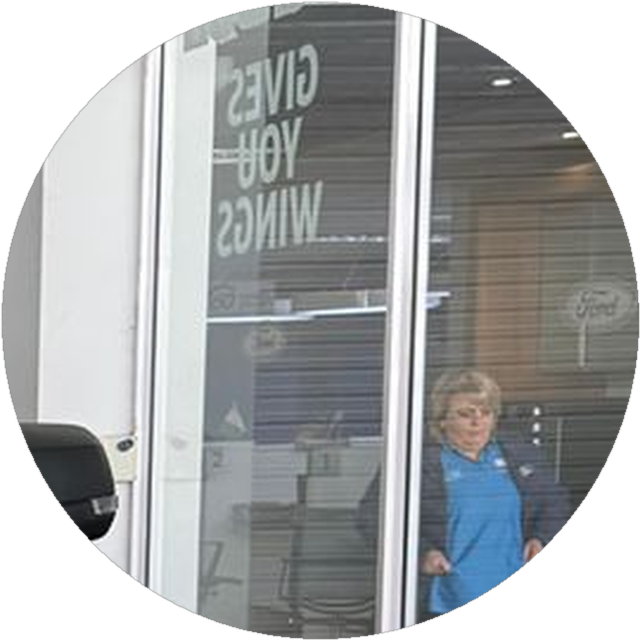
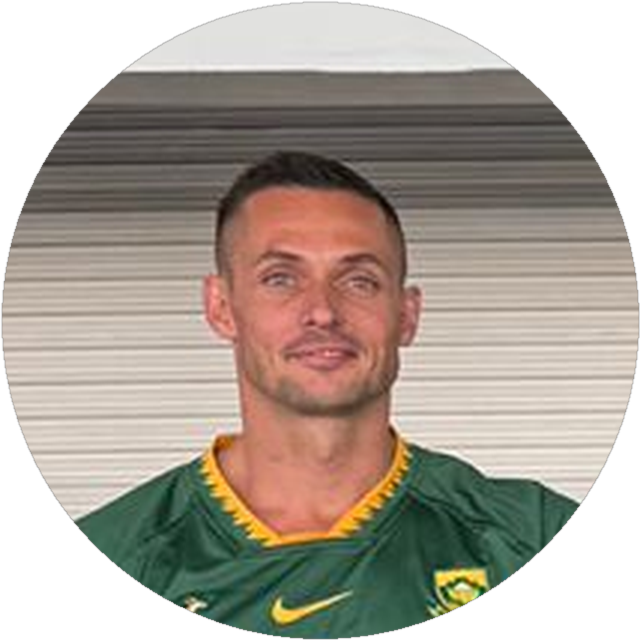
Add files via upload

diff --git a/index.html b/index.html
@@ -280,6 +280,9 @@
   .case-ba-k{font-family:'Montserrat',sans-serif;font-size:10px;letter-spacing:0.14em;text-transform:uppercase;color:var(--ink-dim);margin-bottom:6px;}
   .case-ba-v{font-family:'Montserrat',sans-serif;font-weight:600;font-size:14px;color:var(--ink);line-height:1.35;}
   .case-ba-arrow{align-self:center;color:var(--violet);font-weight:800;}
+  .case-proof{margin-top:22px;border-radius:12px;overflow:hidden;border:1px solid var(--line);line-height:0;box-shadow:0 14px 34px -22px rgba(75,59,124,0.4);}
+  .case-proof img{width:100%;height:auto;display:block;}
+  .case-proof-cap{font-family:'Montserrat',sans-serif;font-size:11px;letter-spacing:0.08em;text-transform:uppercase;color:var(--ink-dim);margin-top:10px;text-align:center;}
 
   /* OFFICE */
   .office-wrap{margin-top:44px;padding-top:36px;border-top:1px solid var(--line);display:grid;grid-template-columns:1fr 1.15fr;gap:36px;align-items:center;}
@@ -831,6 +834,10 @@ z"/>
             <div class="case-ba-arrow">→</div>
             <div class="case-ba-col"><div class="case-ba-k">After</div><div class="case-ba-v">A brand-new bakkie, bought outright from the returns.</div></div>
           </div>
+          <div class="case-proof">
+            <img src="case-charles-proof.jpg" alt="Charles collecting his new bakkie" loading="lazy">
+          </div>
+          <div class="case-proof-cap">Charles, collecting the bakkie</div>
         </div>
       </div>
 
